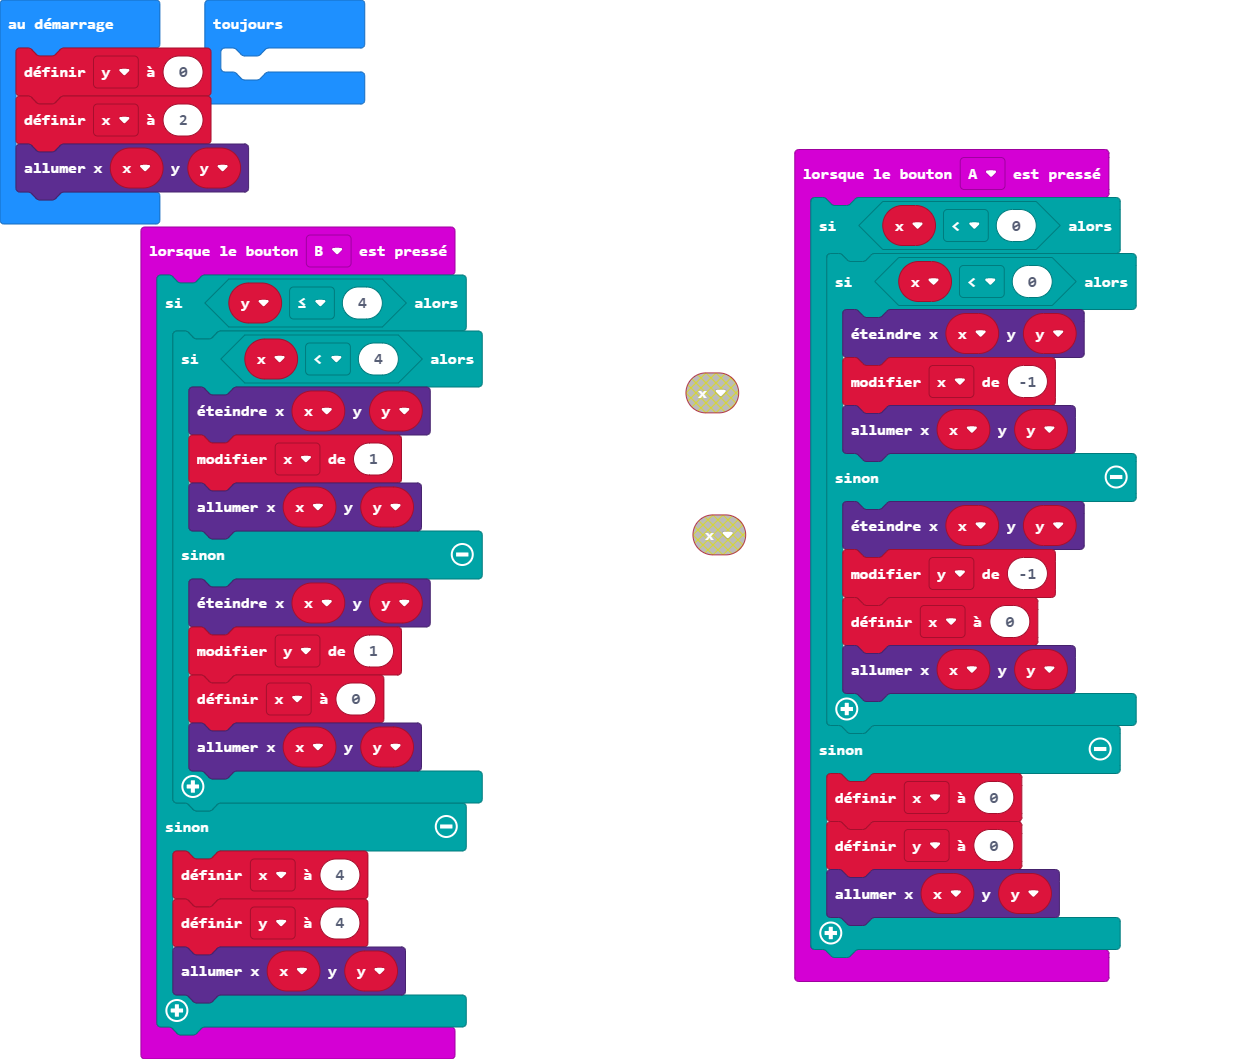
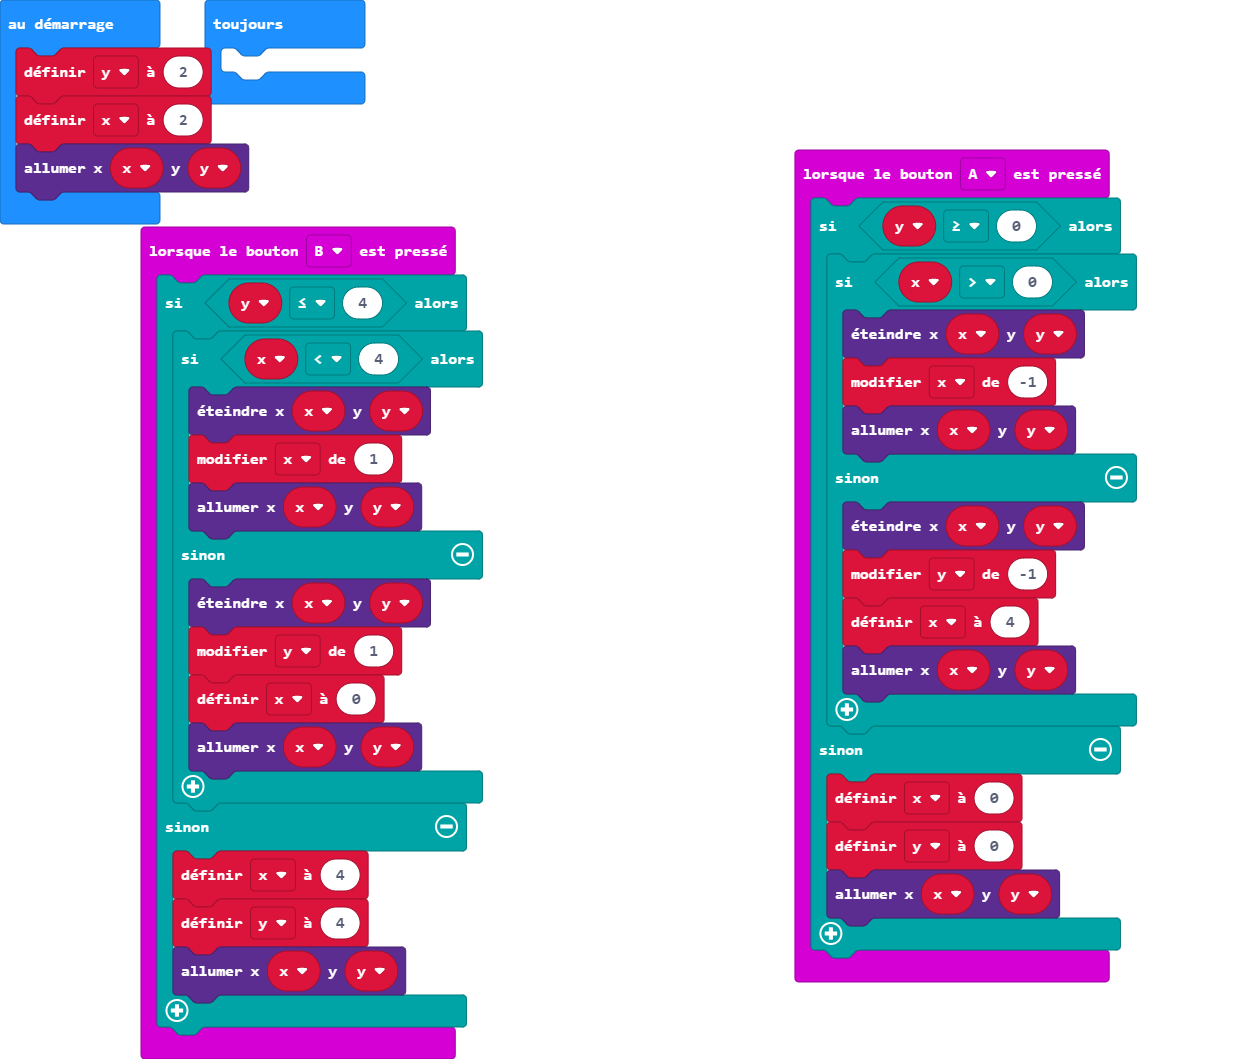
Mise à jour main.blocks, main.ts

diff --git a/main.ts b/main.ts
@@ -1,13 +1,13 @@
 input.onButtonPressed(Button.A, function () {
-    if (x < 0) {
-        if (x < 0) {
+    if (y >= 0) {
+        if (x > 0) {
             led.unplot(x, y)
             x += -1
             led.plot(x, y)
         } else {
             led.unplot(x, y)
             y += -1
-            x = 0
+            x = 4
             led.plot(x, y)
         }
     } else {
@@ -36,7 +36,7 @@ input.onButtonPressed(Button.B, function () {
 })
 let x = 0
 let y = 0
-y = 0
+y = 2
 x = 2
 led.plot(x, y)
 basic.forever(function () {
